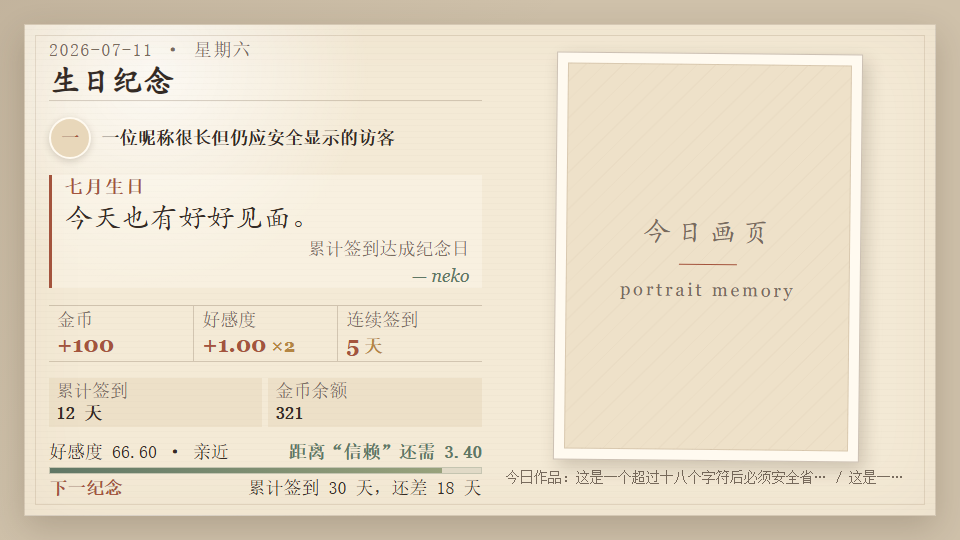
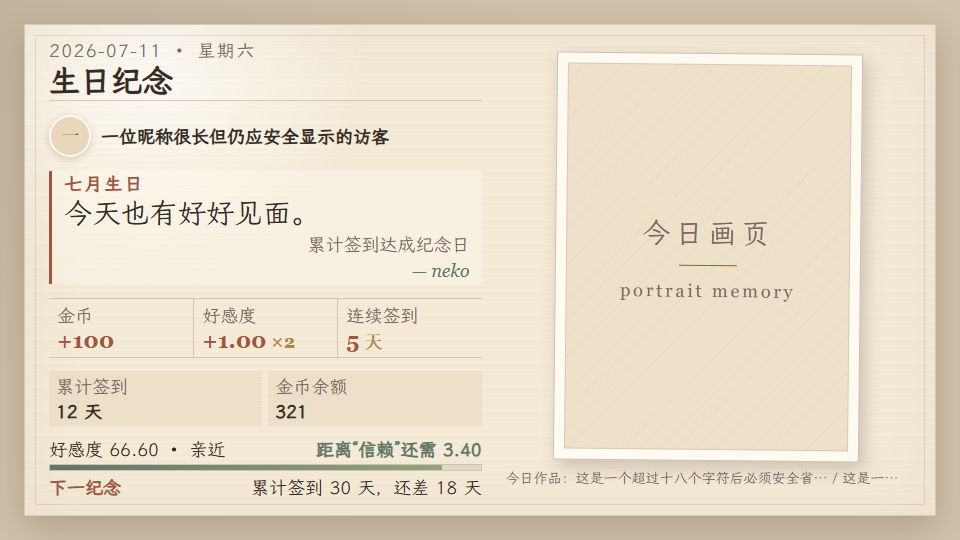
Embed LXGW WenKai font in check-in card

diff --git a/templates/checkin_card_v2/style.css b/templates/checkin_card_v2/style.css
@@ -1,3 +1,11 @@
+@font-face {
+  font-family: "LXGW WenKai Lite";
+  src: url("data:font/woff2;base64,__CHECKIN_CARD_FONT_DATA__") format("woff2");
+  font-style: normal;
+  font-weight: 400;
+  font-display: block;
+}
+
 :root {
   --paper: #f4ead6;
   --paper-deep: #e8d7ba;
@@ -7,6 +15,7 @@
   --rust: #a4543d;
   --sage: #607765;
   --gold: #b48643;
+  --font-cn: "LXGW WenKai Lite", "Noto Serif CJK SC", "Source Han Serif SC", "Songti SC", SimSun, serif;
 }
 
 * { box-sizing: border-box; }
@@ -22,7 +31,7 @@ body {
 body {
   color: var(--ink);
   background: #cbbda7;
-  font-family: "Noto Serif CJK SC", "Source Han Serif SC", "Songti SC", SimSun, serif;
+  font-family: var(--font-cn);
   font-size: 18px;
 }
 
@@ -109,7 +118,7 @@ body {
 
 .card-header h1 {
   margin: 0;
-  font-family: "STKaiti", "KaiTi", serif;
+  font-family: var(--font-cn);
   font-size: 31px;
   font-weight: 600;
   line-height: 1;
@@ -207,7 +216,7 @@ body {
   max-height: 70px;
   margin: 2px 0 1px;
   overflow: hidden;
-  font-family: "STKaiti", "KaiTi", serif;
+  font-family: var(--font-cn);
   font-size: 28px;
   font-weight: 500;
   letter-spacing: 0.015em;
@@ -375,7 +384,7 @@ body {
 }
 
 .artwork-placeholder span {
-  font-family: "STKaiti", "KaiTi", serif;
+  font-family: var(--font-cn);
   font-size: 28px;
   letter-spacing: 0.18em;
 }

diff --git a/tests/test_checkin_card_template_v2.py b/tests/test_checkin_card_template_v2.py
@@ -41,8 +41,21 @@ class CheckinCardTemplateV2Test(unittest.TestCase):
 
         self.assertNotIn("/*__CHECKIN_CARD_CSS__*/", CHECKIN_CARD_TEMPLATE)
         self.assertNotIn('href="./style.css"', CHECKIN_CARD_TEMPLATE)
+        self.assertNotIn("__CHECKIN_CARD_FONT_DATA__", CHECKIN_CARD_TEMPLATE)
         self.assertIn(".paper-sheet", CHECKIN_CARD_TEMPLATE)
+        self.assertIn('url("data:font/woff2;base64,', CHECKIN_CARD_TEMPLATE)
         self.assertIsNone(re.search(r"https?://", CHECKIN_CARD_TEMPLATE))
+
+    def test_local_font_asset_is_bundled_and_reasonably_sized(self):
+        css = (TEMPLATE_DIR / "style.css").read_text(encoding="utf-8")
+        font_path = TEMPLATE_DIR / "fonts" / "LXGWWenKaiLite-GB2312.woff2"
+
+        self.assertTrue(font_path.is_file())
+        self.assertLess(font_path.stat().st_size, 2 * 1024 * 1024)
+        self.assertIn("LXGW WenKai Lite", css)
+        self.assertIn("__CHECKIN_CARD_FONT_DATA__", css)
+        self.assertNotIn("STKaiti", css)
+        self.assertNotIn("KaiTi", css)
 
     def test_stage_contains_paper_inside_the_fixed_canvas(self):
         css = (TEMPLATE_DIR / "style.css").read_text(encoding="utf-8")

diff --git a/checkin_card.py b/checkin_card.py
@@ -23,6 +23,8 @@ CHECKIN_CARD_HEIGHT = 540
 
 _TEMPLATE_DIR = Path(__file__).with_name("templates") / "checkin_card_v2"
 _CSS_MARKER = "/*__CHECKIN_CARD_CSS__*/"
+_FONT_DATA_MARKER = "__CHECKIN_CARD_FONT_DATA__"
+_FONT_PATH = _TEMPLATE_DIR / "fonts" / "LXGWWenKaiLite-GB2312.woff2"
 
 
 def _load_checkin_card_template() -> str:
@@ -30,6 +32,10 @@ def _load_checkin_card_template() -> str:
     css = (_TEMPLATE_DIR / "style.css").read_text(encoding="utf-8")
     if _CSS_MARKER not in html:
         raise RuntimeError("check-in card template is missing its CSS marker")
+    if _FONT_DATA_MARKER not in css:
+        raise RuntimeError("check-in card stylesheet is missing its font marker")
+    font_data = base64.b64encode(_FONT_PATH.read_bytes()).decode("ascii")
+    css = css.replace(_FONT_DATA_MARKER, font_data)
     return html.replace(_CSS_MARKER, css)
 
 

diff --git a/templates/checkin_card_v2/fonts/README.md b/templates/checkin_card_v2/fonts/README.md
@@ -1,0 +1,9 @@
+# 签到卡片字体
+
+- 字体：霞鹜文楷轻便版（LXGW WenKai Lite）Regular
+- 上游版本：`v1.522`
+- 上游项目：https://github.com/lxgw/LxgwWenKai-Lite
+- 授权：SIL Open Font License 1.1，详见 `OFL.txt`
+- 卡片文件：`LXGWWenKaiLite-GB2312.woff2`
+
+卡片字体由官方 `LXGWWenKaiLite-Regular.ttf` 生成，保留 GB2312、ASCII 与常用中文标点，并移除 hinting 后转换为 WOFF2。这样可以在 AstrBot Chromium/T2I 渲染中稳定使用，同时控制插件体积。未包含的生僻字、扩展汉字和符号由 CSS 字体栈回退显示。

diff --git a/templates/checkin_card_v2/README.md b/templates/checkin_card_v2/README.md
@@ -9,6 +9,7 @@
 - 固定 `960 × 540` 的“H · 丰富信息纸张画册”。
 - 左侧约 `48%` 为签到信息，右侧约 `45%` 为固定竖向作品相框。
 - 暖色纸张、轻微印刷纹理和克制的编辑排版；不使用全屏作品背景、紫色渐变或玻璃卡片。
+- 中文字体使用本地内嵌的霞鹜文楷轻便版 GB2312 子集，标题、寄语和信息区保持统一，不依赖系统字体或外网字体服务。
 - 作品使用 `object-fit: contain`，无作品时保留同尺寸纸张占位图。
 - 作品选择固定目标比例为 `3:4`，容差 `20%`，只接受宽高比 `0.60–0.90`；分页耗尽后保持占位图，不切换布局。
 
@@ -31,3 +32,7 @@
 - AI 问候默认关闭。启用后优先使用 `checkin_ai_greeting_provider_id` 指定的文本模型，留空时尝试当前会话文本模型；默认 `8` 秒超时，任何失败均回退本地文案。
 - 用户佩戴称号通过 ViewModel 的 `user_title` 注入；生日、全局事件、节假日、里程碑和连签按优先级生成主事件及单行次要备注。
 - 对应配置为 `checkin_ai_greeting_enabled`、`checkin_ai_greeting_provider_id`、`checkin_ai_greeting_prompt`、`checkin_ai_greeting_timeout`。
+
+## 字体授权
+
+模板内置字体由霞鹜文楷轻便版 `v1.522` 生成，仅保留 GB2312、ASCII 和常用标点字符，并转换为 WOFF2。原字体采用 SIL Open Font License 1.1，来源与许可文本见 [`fonts/README.md`](fonts/README.md) 和 [`fonts/OFL.txt`](fonts/OFL.txt)。未覆盖字符会回退到渲染环境中的思源宋体或系统宋体。